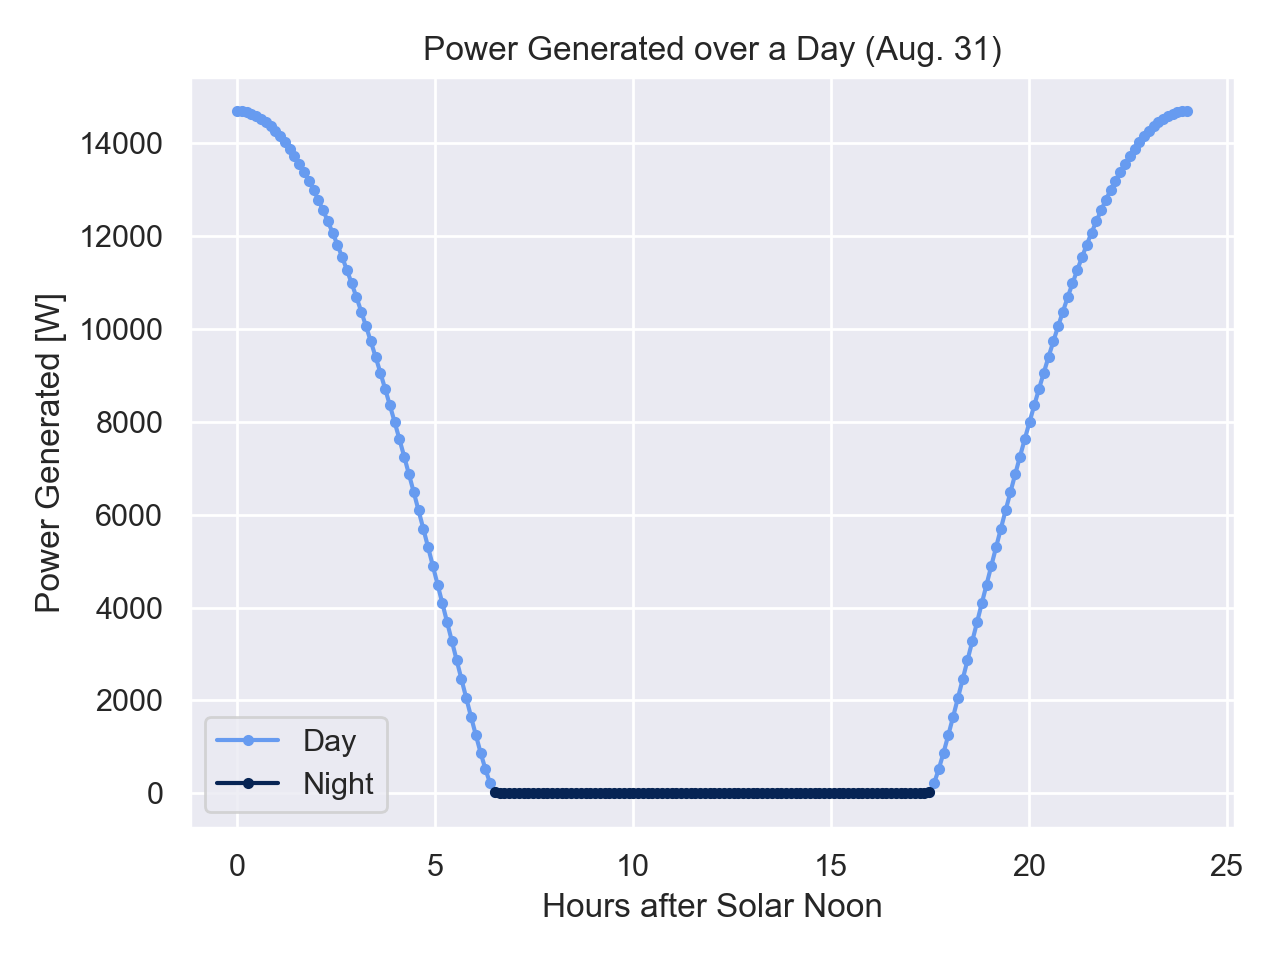
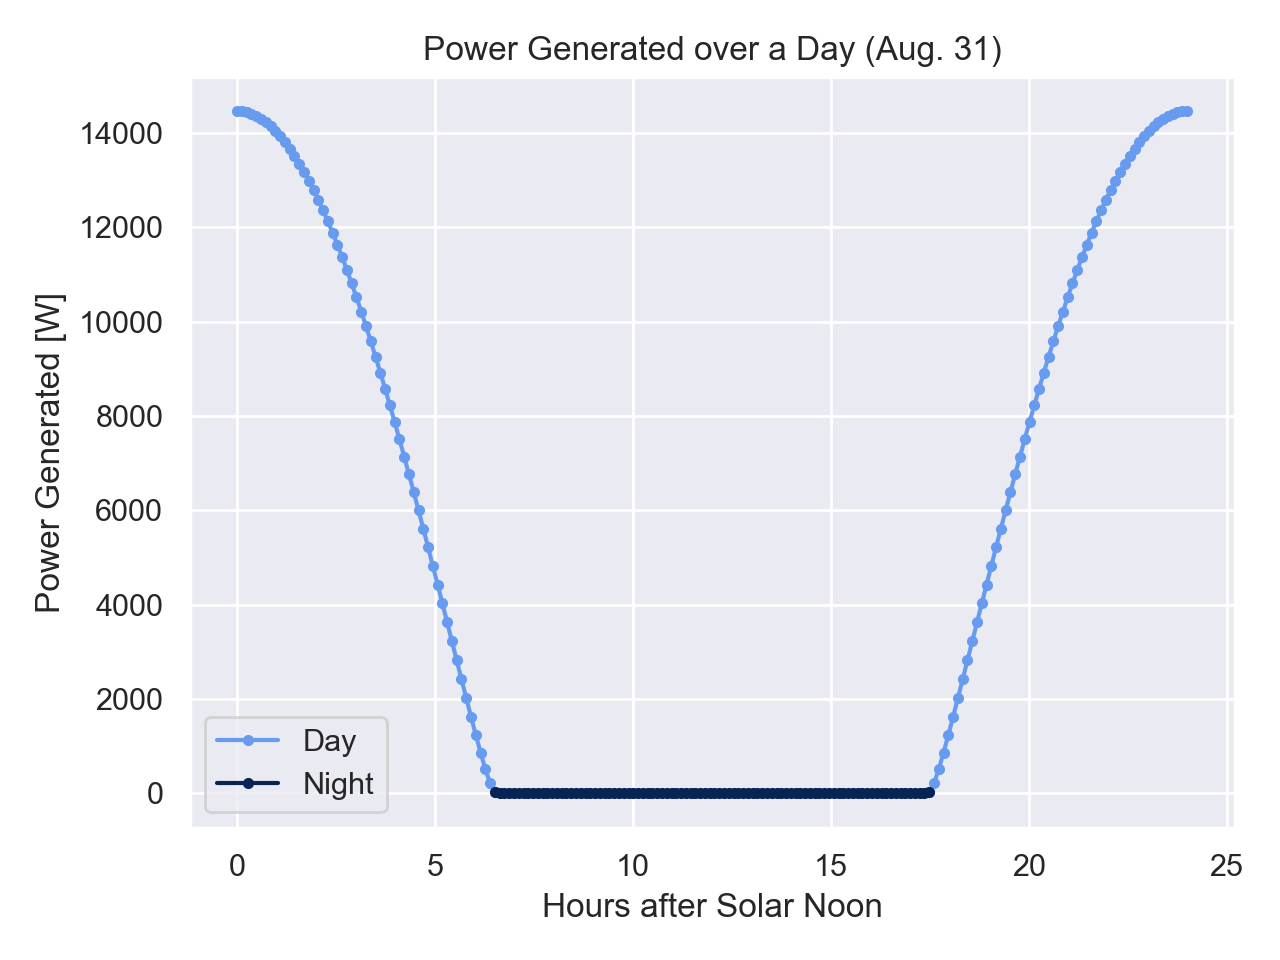
updated avionics mass, power numbers; unfroze spar mass model

diff --git a/design_opt.py b/design_opt.py
@@ -674,8 +674,7 @@ power_out_payload = cas.if_else(
 )
 
 # Account for avionics power
-power_out_avionics = 288.94  # Pulled from Avionics spreadsheet on 4/23/20
-# From Michelle on 4/30/20 in DM on Slack
+power_out_avionics = 180  # Pulled from Avionics spreadsheet on 5/13/20
 # https://docs.google.com/spreadsheets/d/1nhz2SAcj4uplEZKqQWHYhApjsZvV9hme9DlaVmPca0w/edit?pli=1#gid=0
 
 ### Power accounting
@@ -804,41 +803,13 @@ opti.subject_to([
     n_ribs_wing > 0,
 ])
 
-
-def mass_wing_spar(
-        span,
-        mass_supported,
-        ultimate_load_factor=1.75,  # default taken from Daedalus design
-        n_booms=1,
-):
-    """
-    Finds the mass of the spar for a wing on a single- or multi-boom lightweight aircraft. Model originally designed for solar aircraft.
-    Data was fit to the range 30 < wing_span < 90 [m] and 50 < supported_mass < 800 [kg], but validity should extend somewhat beyond that.
-    Extremely accurate fits within this range; R^2 > 0.99 for all fits.
-    Source: AeroSandbox\studies\MultiBoomSparMass
-    Assumptions:
-        * Rectangular lift distribution (close enough, slightly conservative w.r.t. elliptical)
-        * Constraint that local wing dihedral/anhedral angle must not exceed 10 degrees anywhere.
-        * If multi-boom, assumes static-aerostructurally-optimal placement of the outer booms.
-    :param span: Wing span [m]
-    :param mass_supported: Total mass of all fuselages + tails
-    :param ultimate_load_factor: Design load factor. Default taken from Daedalus design.
-    :param n_booms: Number of booms on the design. Can be 1, 2, or 3. Assumes optimal placement of the outer booms.
-    :return:
-    """
-    c = 0.0058387469143534225
-    span_exp = 1.6164203794723102
-    mass_exp = 0.344122282920375
-    return c * (mass_supported * ultimate_load_factor) ** mass_exp * span ** span_exp
-
-
-mass_wing_primary = mass_wing_spar(
+mass_wing_primary = lib_mass_struct.mass_wing_spar(
     span=wing.span(),
     mass_supported=max_mass_total,
     # technically the spar doesn't really have to support its own weight (since it's roughly spanloaded), so this is conservative
     ultimate_load_factor=structural_load_factor,
     n_booms=n_booms
-)
+) * 11.382 / 9.222 # scaling factor taken from Daedalus weights
 mass_wing_secondary = lib_mass_struct.mass_hpa_wing(
     span=wing.span(),
     chord=wing.mean_geometric_chord(),
@@ -922,8 +893,7 @@ mass_structural *= structural_mass_margin_multiplier
 
 ### Avionics
 # mass_avionics = 3.7 / 3.8 * 25  # back-calculated from Kevin Uleck's figures in MIT 16.82 presentation
-mass_avionics = 7.613  # Pulled from Avionics team spreadsheet on 4/30
-# From Michelle on 4/30/20 in DM on Slack
+mass_avionics = 12.153  # Pulled from Avionics team spreadsheet on 5/13
 # https://docs.google.com/spreadsheets/d/1nhz2SAcj4uplEZKqQWHYhApjsZvV9hme9DlaVmPca0w/edit?pli=1#gid=0
 
 opti.subject_to([
